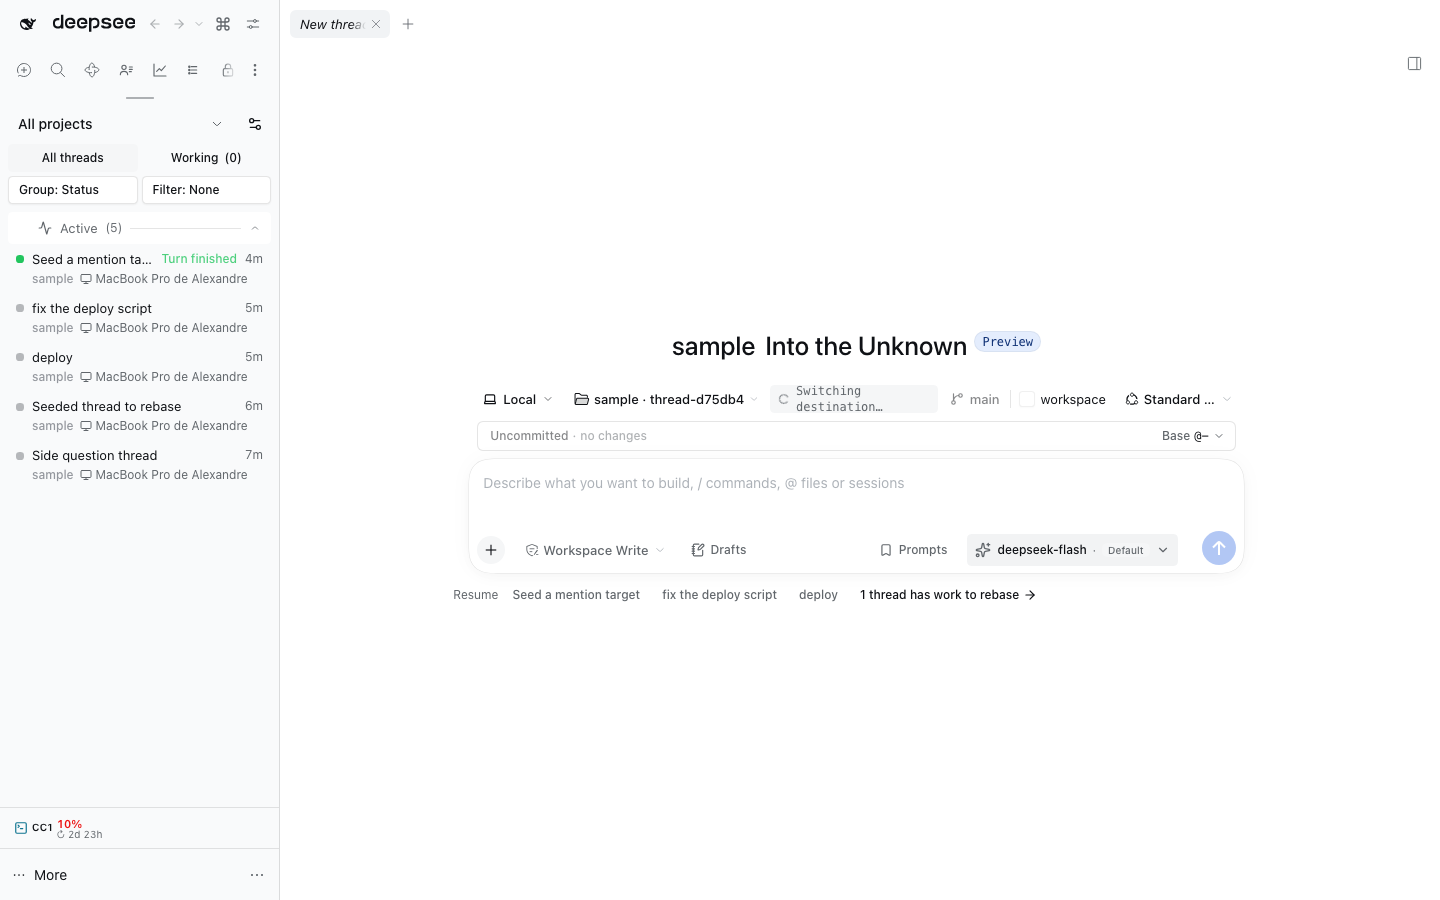
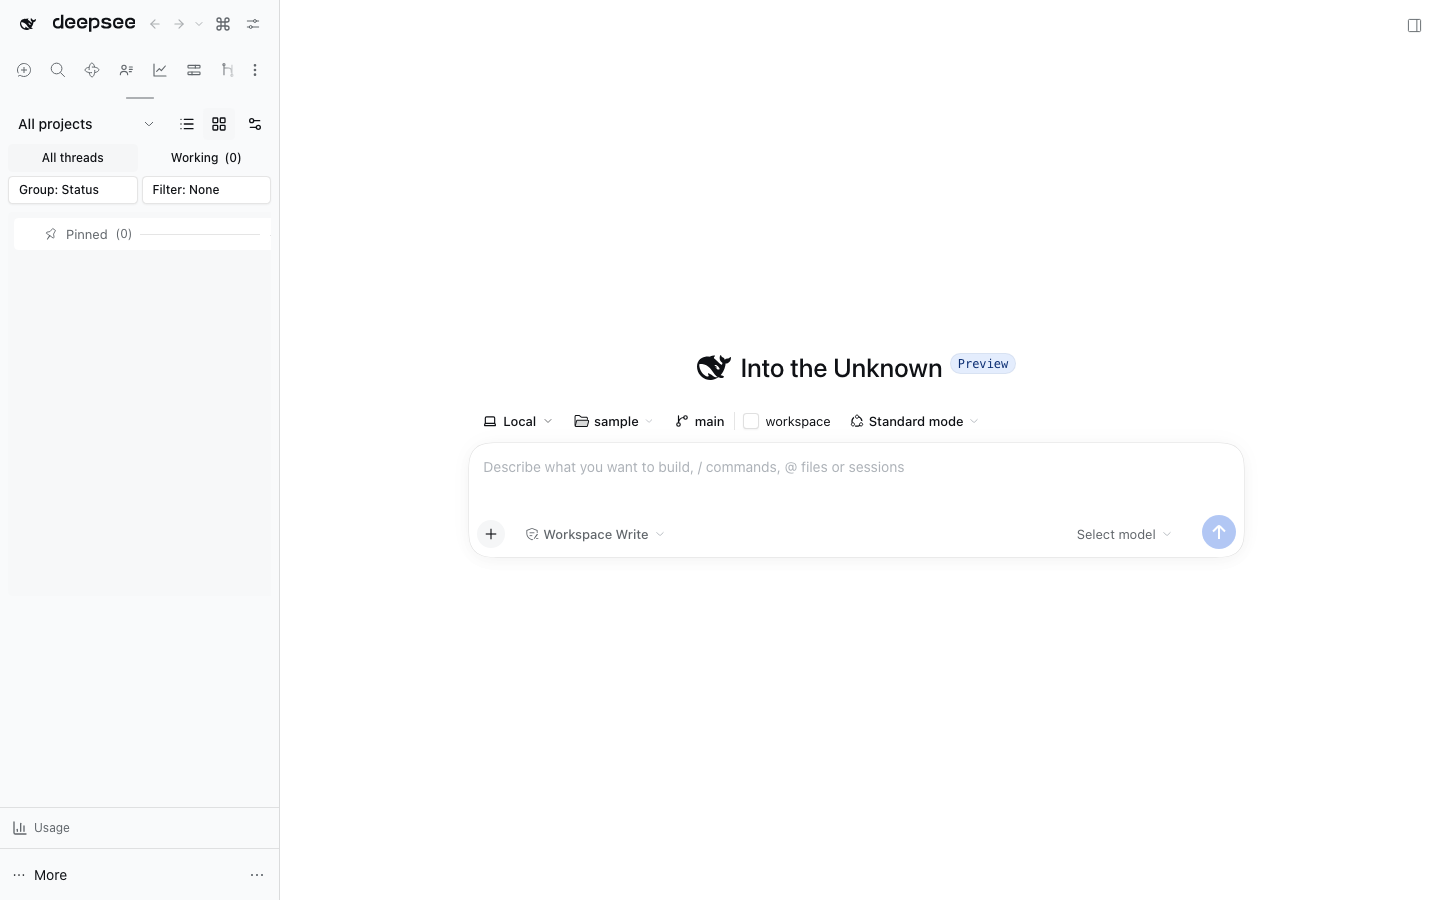
feat(thread-sidebar): add a switchable status board
Keep the existing list available while adding a persisted board layout over the sidebar's status lanes. Reuse the existing thread rows and drag-to-move behavior, and give the layout toggle its own accessible group name.

diff --git a/plugins/@dshfiles/thread-sidebar/src/client.tsx b/plugins/@dshfiles/thread-sidebar/src/client.tsx
@@ -7,6 +7,7 @@ import { jjIntegrationApi } from '@dshfiles/jj-integration/api'
 import { DetachedThreadsModel, type DetachedGroupAction } from './detached-threads.js'
 import { DraftThreadsModel } from './draft-threads.js'
 import { HostSnapshotsModel } from './snapshots.js'
+import { storedThreadLayoutMode } from './thread-layout-mode.js'
 import { storedCollapsedGroups, toggleCollapsedGroup } from './collapsed-groups.js'
 import { useNearViewport } from './use-near-viewport.js'
 import { formatAge } from './relative-age.js'
@@ -76,6 +77,8 @@ import {
   CirclePauseIcon,
   GripVerticalIcon,
   LinkIcon,
+  ListIcon,
+  LayoutGridIcon,
   MonitorIcon,
   PanelRightOpenIcon,
   RefreshCwIcon,
@@ -1235,6 +1238,7 @@ const ThreadSidebarContent = (props: ThreadSidebarProps): JSX.Element => {
   selectionRef.current = threadSelection
   const scrollAreaRef = useRef<HTMLDivElement>(null)
   const [settingsOpen, setSettingsOpen] = useState(false)
+  const layoutMode = storedThreadLayoutMode.useValue() ?? 'list'
   const [viewsManagerOpen, setViewsManagerOpen] = useState(false)
   const [threadToScrollTo, setThreadToScrollTo] = useState<string | null>(null)
   const threadViewSettings = preferences.threadViews
@@ -3783,6 +3787,30 @@ const ThreadSidebarContent = (props: ThreadSidebarProps): JSX.Element => {
                 </DropdownMenuCheckboxItem>
               </DropdownMenuContent>
             </DropdownMenu>
+            <div role="group" aria-label={props.tSidebar('threadSidebarLayoutGroup')} className="dshx:flex dshx:shrink-0 dshx:items-center">
+              <Button
+                type="button"
+                size="icon"
+                variant={layoutMode === 'list' ? 'secondary' : 'ghost'}
+                aria-label={props.tSidebar('threadSidebarLayoutList')}
+                aria-pressed={layoutMode === 'list'}
+                title={props.tSidebar('threadSidebarLayoutList')}
+                onClick={() => storedThreadLayoutMode.set('list')}
+              >
+                <ListIcon />
+              </Button>
+              <Button
+                type="button"
+                size="icon"
+                variant={layoutMode === 'board' ? 'secondary' : 'ghost'}
+                aria-label={props.tSidebar('threadSidebarLayoutBoard')}
+                aria-pressed={layoutMode === 'board'}
+                title={props.tSidebar('threadSidebarLayoutBoard')}
+                onClick={() => storedThreadLayoutMode.set('board')}
+              >
+                <LayoutGridIcon />
+              </Button>
+            </div>
             <Button
               type="button"
               size="icon"
@@ -4284,134 +4312,138 @@ const ThreadSidebarContent = (props: ThreadSidebarProps): JSX.Element => {
               {groupedAttentionRows.turnFinished.map(session => renderThreadRow(session, 'threadSidebarTurnFinished'))}
             </section>
           ) : null}
-          {threadView.groupBy === 'status'
-            ? renderedSections.map((section, index) => {
-                const rows = rowsBySection.get(section) ?? []
-                const collapsed = preferences.collapsedSections.includes(section)
-                return (
-                  <section
-                    className={cn(
-                      'dshx:mt-1 dshx:rounded-md',
-                      rowDrag !== null && rowDropSection === section && 'dshx:bg-accent/40 dshx:ring-1 dshx:ring-inset dshx:ring-ring/30',
-                    )}
-                    key={section}
-                    data-thread-section={section}
-                  >
-                    <button
-                      ref={element => {
-                        sectionHeaderRefs.current[index] = element
-                      }}
-                      type="button"
-                      data-thread-section-header=""
-                      title={props.tSidebar('threadSidebarSectionReorderHint')}
+          <div className={cn(layoutMode === 'board' && 'dshx:flex dshx:min-h-full dshx:items-start dshx:gap-3 dshx:overflow-x-auto dshx:pb-2')}>
+            {layoutMode === 'board' || threadView.groupBy === 'status'
+              ? (layoutMode === 'board' ? orderedSections : renderedSections).map((section, index) => {
+                  const rows = rowsBySection.get(section) ?? []
+                  const collapsed = preferences.collapsedSections.includes(section)
+                  return (
+                    <section
                       className={cn(
-                        stickyHeaderClass,
-                        'dshx:group dshx:flex dshx:h-8 dshx:w-full dshx:items-center dshx:gap-2 dshx:rounded-md dshx:px-2.5 dshx:text-sm dshx:text-muted-foreground dshx:outline-none dshx:hover:text-foreground dshx:focus-visible:ring-2 dshx:focus-visible:ring-ring/50',
-                        rowDrag !== null && 'dshx:ring-1 dshx:ring-ring/20',
-                        rowDropSection === section && 'dshx:bg-accent dshx:text-foreground dshx:ring-ring/50',
-                        sectionDrag?.from === index && 'dshx:cursor-grabbing dshx:bg-accent dshx:opacity-70',
+                        'dshx:mt-1 dshx:rounded-md',
+                        layoutMode === 'board' && 'dshx:flex dshx:min-h-[24rem] dshx:w-72 dshx:shrink-0 dshx:flex-col dshx:bg-muted/45 dshx:p-1.5',
+                        rowDrag !== null && rowDropSection === section && 'dshx:bg-accent/40 dshx:ring-1 dshx:ring-inset dshx:ring-ring/30',
                       )}
-                      aria-expanded={!collapsed}
-                      onPointerDown={event => {
-                        if (event.button !== 0) return
-                        sectionDragRef.current = { pointerId: event.pointerId, from: index, startY: event.clientY, centers: null }
-                      }}
-                      onPointerMove={event => {
-                        const current = sectionDragRef.current
-                        if (current === null || current.pointerId !== event.pointerId) return
-                        if (current.centers === null) {
-                          if (Math.abs(event.clientY - current.startY) < SECTION_DRAG_THRESHOLD_PX) return
-                          current.centers = shownSections.map((_, position) => {
-                            const rect = sectionHeaderRefs.current[position]?.getBoundingClientRect()
-                            return rect === undefined ? Number.POSITIVE_INFINITY : rect.top + rect.height / 2
-                          })
-                          event.currentTarget.setPointerCapture(event.pointerId)
-                        }
-                        event.preventDefault()
-                        setSectionDrag({
-                          from: current.from,
-                          to: SidebarOrganization.dropIndexAt({ centers: current.centers, fromIndex: current.from, position: event.clientY }),
-                        })
-                      }}
-                      onPointerUp={event => {
-                        const current = sectionDragRef.current
-                        if (current === null || current.pointerId !== event.pointerId) return
-                        if (current.centers !== null) {
-                          suppressSectionClick.current = true
-                          commitSectionOrder(
-                            current.from,
-                            SidebarOrganization.dropIndexAt({ centers: current.centers, fromIndex: current.from, position: event.clientY }),
-                          )
-                        }
-                        endSectionDrag()
-                      }}
-                      onPointerCancel={endSectionDrag}
-                      onLostPointerCapture={() => {
-                        if (sectionDragRef.current?.centers !== null) endSectionDrag()
-                      }}
-                      onKeyDown={event => {
-                        if (!event.altKey || (event.key !== 'ArrowUp' && event.key !== 'ArrowDown')) return
-                        const fromShownIndex = shownSections.indexOf(section)
-                        const toShownIndex = fromShownIndex + (event.key === 'ArrowUp' ? -1 : 1)
-                        if (fromShownIndex < 0 || toShownIndex < 0 || toShownIndex >= shownSections.length) return
-                        event.preventDefault()
-                        commitSectionOrder(fromShownIndex, toShownIndex)
-                      }}
-                      onClick={() => {
-                        if (suppressSectionClick.current) {
-                          suppressSectionClick.current = false
-                          return
-                        }
-                        toggleSection(section)
-                      }}
+                      key={section}
+                      data-thread-section={section}
+                      aria-label={layoutMode === 'board' ? `${props.tSidebar(sectionLabels[section])} column` : undefined}
                     >
-                      <span
-                        className="dshx:inline-flex dshx:shrink-0 dshx:opacity-0 dshx:transition-opacity dshx:group-hover:opacity-100 dshx:group-focus-visible:opacity-100"
-                        aria-hidden="true"
-                      >
-                        <GripVerticalIcon className="dshx:size-3 dshx:cursor-grab dshx:active:cursor-grabbing" />
-                      </span>
-                      <span className="dshx:inline-flex dshx:shrink-0" aria-hidden="true">
-                        {sectionIcons[section]}
-                      </span>
-                      <span className="dshx:whitespace-nowrap">{props.tSidebar(sectionLabels[section])}</span>
-                      <span className="dshx:text-xs dshx:tabular-nums">({rows.length})</span>
-                      <span className="dshx:h-px dshx:flex-1 dshx:bg-border" aria-hidden="true" />
-                      <span className="dshx:inline-flex dshx:shrink-0" aria-hidden="true">
-                        {collapsed ? <IconChevronDownOutlineRegular size={12} /> : <IconChevronUpOutlineRegular size={12} />}
-                      </span>
-                    </button>
-                    {!collapsed ? rows.map(session => renderThreadRow(session, undefined, section)) : null}
-                  </section>
-                )
-              })
-            : groupedThreadEntries.map(group => {
-                const groupCollapsed = group.showHeader && collapsedGroups.includes(group.key)
-                return (
-                  <section className="dshx:mt-1" key={group.key} aria-label={group.showHeader ? group.label : undefined}>
-                    {group.showHeader ? (
                       <button
+                        ref={element => {
+                          sectionHeaderRefs.current[index] = element
+                        }}
                         type="button"
                         data-thread-section-header=""
+                        title={props.tSidebar('threadSidebarSectionReorderHint')}
                         className={cn(
                           stickyHeaderClass,
-                          'dshx:flex dshx:h-8 dshx:w-full dshx:items-center dshx:gap-2 dshx:rounded-md dshx:px-2.5 dshx:text-sm dshx:text-muted-foreground dshx:outline-none dshx:hover:text-foreground dshx:focus-visible:ring-2 dshx:focus-visible:ring-ring/50',
+                          'dshx:group dshx:flex dshx:h-8 dshx:w-full dshx:items-center dshx:gap-2 dshx:rounded-md dshx:px-2.5 dshx:text-sm dshx:text-muted-foreground dshx:outline-none dshx:hover:text-foreground dshx:focus-visible:ring-2 dshx:focus-visible:ring-ring/50',
+                          rowDrag !== null && 'dshx:ring-1 dshx:ring-ring/20',
+                          rowDropSection === section && 'dshx:bg-accent dshx:text-foreground dshx:ring-ring/50',
+                          sectionDrag?.from === index && 'dshx:cursor-grabbing dshx:bg-accent dshx:opacity-70',
                         )}
-                        aria-expanded={!groupCollapsed}
-                        onClick={() => toggleGroup(group.key)}
+                        aria-expanded={!collapsed}
+                        onPointerDown={event => {
+                          if (layoutMode === 'board' || event.button !== 0) return
+                          sectionDragRef.current = { pointerId: event.pointerId, from: index, startY: event.clientY, centers: null }
+                        }}
+                        onPointerMove={event => {
+                          const current = sectionDragRef.current
+                          if (current === null || current.pointerId !== event.pointerId) return
+                          if (current.centers === null) {
+                            if (Math.abs(event.clientY - current.startY) < SECTION_DRAG_THRESHOLD_PX) return
+                            current.centers = shownSections.map((_, position) => {
+                              const rect = sectionHeaderRefs.current[position]?.getBoundingClientRect()
+                              return rect === undefined ? Number.POSITIVE_INFINITY : rect.top + rect.height / 2
+                            })
+                            event.currentTarget.setPointerCapture(event.pointerId)
+                          }
+                          event.preventDefault()
+                          setSectionDrag({
+                            from: current.from,
+                            to: SidebarOrganization.dropIndexAt({ centers: current.centers, fromIndex: current.from, position: event.clientY }),
+                          })
+                        }}
+                        onPointerUp={event => {
+                          const current = sectionDragRef.current
+                          if (current === null || current.pointerId !== event.pointerId) return
+                          if (current.centers !== null) {
+                            suppressSectionClick.current = true
+                            commitSectionOrder(
+                              current.from,
+                              SidebarOrganization.dropIndexAt({ centers: current.centers, fromIndex: current.from, position: event.clientY }),
+                            )
+                          }
+                          endSectionDrag()
+                        }}
+                        onPointerCancel={endSectionDrag}
+                        onLostPointerCapture={() => {
+                          if (sectionDragRef.current?.centers !== null) endSectionDrag()
+                        }}
+                        onKeyDown={event => {
+                          if (!event.altKey || (event.key !== 'ArrowUp' && event.key !== 'ArrowDown')) return
+                          const fromShownIndex = shownSections.indexOf(section)
+                          const toShownIndex = fromShownIndex + (event.key === 'ArrowUp' ? -1 : 1)
+                          if (fromShownIndex < 0 || toShownIndex < 0 || toShownIndex >= shownSections.length) return
+                          event.preventDefault()
+                          commitSectionOrder(fromShownIndex, toShownIndex)
+                        }}
+                        onClick={() => {
+                          if (suppressSectionClick.current) {
+                            suppressSectionClick.current = false
+                            return
+                          }
+                          toggleSection(section)
+                        }}
                       >
-                        <span className="dshx:whitespace-nowrap">{group.label}</span>
-                        <span className="dshx:text-xs dshx:tabular-nums">({group.threads.length})</span>
+                        <span
+                          className="dshx:inline-flex dshx:shrink-0 dshx:opacity-0 dshx:transition-opacity dshx:group-hover:opacity-100 dshx:group-focus-visible:opacity-100"
+                          aria-hidden="true"
+                        >
+                          <GripVerticalIcon className="dshx:size-3 dshx:cursor-grab dshx:active:cursor-grabbing" />
+                        </span>
+                        <span className="dshx:inline-flex dshx:shrink-0" aria-hidden="true">
+                          {sectionIcons[section]}
+                        </span>
+                        <span className="dshx:whitespace-nowrap">{props.tSidebar(sectionLabels[section])}</span>
+                        <span className="dshx:text-xs dshx:tabular-nums">({rows.length})</span>
                         <span className="dshx:h-px dshx:flex-1 dshx:bg-border" aria-hidden="true" />
                         <span className="dshx:inline-flex dshx:shrink-0" aria-hidden="true">
-                          {groupCollapsed ? <IconChevronDownOutlineRegular size={12} /> : <IconChevronUpOutlineRegular size={12} />}
+                          {collapsed ? <IconChevronDownOutlineRegular size={12} /> : <IconChevronUpOutlineRegular size={12} />}
                         </span>
                       </button>
-                    ) : null}
-                    {groupCollapsed ? null : group.threads.map(session => renderThreadRow(session, undefined))}
-                  </section>
-                )
-              })}
+                      {!collapsed ? rows.map(session => renderThreadRow(session, undefined, section)) : null}
+                    </section>
+                  )
+                })
+              : groupedThreadEntries.map(group => {
+                  const groupCollapsed = group.showHeader && collapsedGroups.includes(group.key)
+                  return (
+                    <section className="dshx:mt-1" key={group.key} aria-label={group.showHeader ? group.label : undefined}>
+                      {group.showHeader ? (
+                        <button
+                          type="button"
+                          data-thread-section-header=""
+                          className={cn(
+                            stickyHeaderClass,
+                            'dshx:flex dshx:h-8 dshx:w-full dshx:items-center dshx:gap-2 dshx:rounded-md dshx:px-2.5 dshx:text-sm dshx:text-muted-foreground dshx:outline-none dshx:hover:text-foreground dshx:focus-visible:ring-2 dshx:focus-visible:ring-ring/50',
+                          )}
+                          aria-expanded={!groupCollapsed}
+                          onClick={() => toggleGroup(group.key)}
+                        >
+                          <span className="dshx:whitespace-nowrap">{group.label}</span>
+                          <span className="dshx:text-xs dshx:tabular-nums">({group.threads.length})</span>
+                          <span className="dshx:h-px dshx:flex-1 dshx:bg-border" aria-hidden="true" />
+                          <span className="dshx:inline-flex dshx:shrink-0" aria-hidden="true">
+                            {groupCollapsed ? <IconChevronDownOutlineRegular size={12} /> : <IconChevronUpOutlineRegular size={12} />}
+                          </span>
+                        </button>
+                      ) : null}
+                      {groupCollapsed ? null : group.threads.map(session => renderThreadRow(session, undefined))}
+                    </section>
+                  )
+                })}
+          </div>
           {detachedThreadGroups.map(group => {
             const branchAction = group.branchAction
             const branchBusy = detachedBranchBusy.has(group.missingAncestorId)

diff --git a/tooling/dshx/e2e/support/plugin-journeys/thread-sidebar.steps.ts b/tooling/dshx/e2e/support/plugin-journeys/thread-sidebar.steps.ts
@@ -489,6 +489,27 @@ Then('the settled thread archives itself without a click', async ({ page }: { pa
   await finishJourneyAssertions(page)
 })
 
+When('the sidebar board layout is selected', async ({ page }: { page: Page }) => {
+  await threadSidebar(page).getByRole('button', { name: 'Board layout', exact: true }).click()
+})
+
+Then('all six thread status lanes are shown and the layout choice survives reload', async ({ page }: { page: Page }) => {
+  const sidebar = threadSidebar(page)
+  const columns = sidebar.getByRole('region', { name: /column$/u })
+  await recordAssertion(page, 'thread-sidebar-board-has-six-status-lanes', async () => {
+    await expect(columns).toHaveCount(6)
+    await expect(sidebar.getByRole('button', { name: 'Board layout', exact: true })).toHaveAttribute('aria-pressed', 'true')
+  })
+  await page.reload()
+  await expect(threadSidebar(page)).toBeVisible()
+  await expect(threadSidebar(page).getByRole('region', { name: /column$/u })).toHaveCount(6)
+  await expect(threadSidebar(page).getByRole('button', { name: 'Board layout', exact: true })).toHaveAttribute('aria-pressed', 'true')
+  await threadSidebar(page).getByRole('button', { name: 'List layout', exact: true }).click()
+  await expect(threadSidebar(page).getByRole('region', { name: /column$/u })).toHaveCount(0)
+  await expect(threadSidebar(page).getByRole('button', { name: 'List layout', exact: true })).toHaveAttribute('aria-pressed', 'true')
+  await finishJourneyAssertions(page)
+})
+
 let parkedThreadId: string | null = null
 
 When('a nonblank Host thread is parked from its context menu', async ({ page }: { page: Page }) => {

diff --git a/plugins/@dshfiles/thread-sidebar/src/locales.ts b/plugins/@dshfiles/thread-sidebar/src/locales.ts
@@ -11,6 +11,9 @@ const en = {
   threadSidebarAllProjects: 'All projects',
   threadSidebarAllThreads: 'All threads',
   threadSidebarListView: 'Thread list view',
+  threadSidebarLayoutGroup: 'Thread layout',
+  threadSidebarLayoutList: 'List layout',
+  threadSidebarLayoutBoard: 'Board layout',
   threadSidebarCurrentView: 'Current view',
   threadSidebarViewControls: 'View controls',
   threadSidebarShowGroupControl: 'Show group button',
@@ -390,6 +393,9 @@ const zh = {
   threadSidebarAllProjects: '所有项目',
   threadSidebarAllThreads: '全部会话',
   threadSidebarListView: '会话列表视图',
+  threadSidebarLayoutGroup: '会话布局',
+  threadSidebarLayoutList: '列表布局',
+  threadSidebarLayoutBoard: '看板布局',
   threadSidebarCurrentView: '当前视图',
   threadSidebarViewControls: '视图控件',
   threadSidebarShowGroupControl: '显示分组按钮',

diff --git a/plugins/@dshfiles/thread-sidebar/src/thread-layout-mode.ts b/plugins/@dshfiles/thread-sidebar/src/thread-layout-mode.ts
@@ -1,0 +1,12 @@
+import { createStoredValue } from '@dshfiles/plugin-ui/hooks/stored-value'
+import { z } from 'zod'
+
+export type ThreadLayoutMode = 'list' | 'board'
+
+const threadLayoutModeSchema = z.enum(['list', 'board'])
+
+export const storedThreadLayoutMode = createStoredValue({
+  key: 'dshfiles.thread-sidebar.layout-mode.v1',
+  schema: threadLayoutModeSchema,
+  fallback: 'list',
+})

diff --git a/plugins/@dshfiles/thread-sidebar/README.md b/plugins/@dshfiles/thread-sidebar/README.md
@@ -1,6 +1,6 @@
 # Thread Sidebar
 
-![Organize threads by workspace and status](docs/screenshots/thread-classification.png)
+![Thread sidebar status board with switchable list layout](docs/screenshots/thread-classification.png)
 
 This bundle builds a full sidebar replacement with the repository's local
 `@dshfiles/dshx` fork. It groups the real DSH session list by project and
@@ -27,6 +27,12 @@ thread's other statuses, so restoring brings it back where it was. Pin, settle
 and archive keep their usual refusals (a running thread cannot be parked, settled
 or archived), and every move honors Apply actions to child threads. The row
 context menu's Move to group submenu performs the same moves from the keyboard.
+
+**List and board layouts.** The header toggles between the existing thread list and
+an alternate status board. The board keeps the active view's filters and project
+scope, shows all six status lanes (including empty ones), and preserves thread
+row actions; dragging a row between lanes uses the same section move behavior.
+The layout choice is stored in this browser and survives reloads.
 
 **Keyboard and multi-select.** ↑/↓ move focus and open the focused thread (or
 only move focus when Sidebar settings says Move focus only); Shift+↑/↓ extends a
